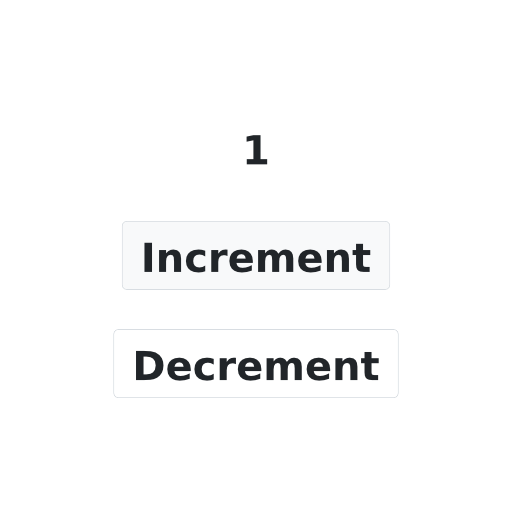
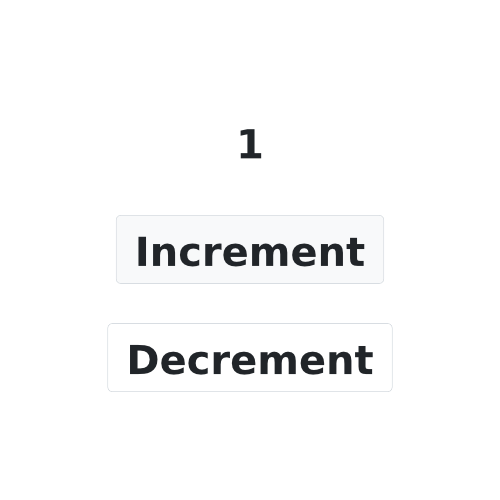
Allow sizes that are not multiples of 256

Changed region(s): [[0.24, 0.63, 0.75, 0.75], [0.24, 0.45, 0.75, 0.57], [0.48, 0.24, 0.54, 0.33]]

diff --git a/src/testing.rs b/src/testing.rs
@@ -63,7 +63,7 @@ impl<T: ToComponent + 'static> TestHarness<T>
 where
     <T as ToComponent>::Component: 'static,
 {
-    pub fn new(component: T) -> Self {
+    pub fn new<S: Into<Size>>(component: T, size: S) -> Self {
         let mut harness = Self {
             window_state: WindowState::new(component.to_component_holder()),
             report: TestReport::default(),
@@ -71,7 +71,7 @@ where
             last_mouse_pos: None,
             phantom: PhantomData,
         };
-        harness.init();
+        harness.init(size.into());
         harness
     }
 
@@ -83,8 +83,8 @@ where
             .unwrap()
     }
 
-    fn init(&mut self) {
-        self.window_state.size = Size::new(512.0, 512.0);
+    fn init(&mut self, size: Size) {
+        self.window_state.size = size;
         self.window_state.component.update_vars(
             true,
             &mut self.window_state.handle,
@@ -122,9 +122,9 @@ where
         };
         let texture = device.create_texture(&texture_desc);
         let texture_view = texture.create_view(&Default::default());
-        let u32_size = std::mem::size_of::<u32>() as u32;
+        let byte_aligned_width = (std::mem::size_of::<u32>() as u32 * width).next_multiple_of(256);
 
-        let output_buffer_size = (u32_size * width * height) as BufferAddress;
+        let output_buffer_size = (byte_aligned_width * height) as BufferAddress;
         let output_buffer_desc = BufferDescriptor {
             size: output_buffer_size,
             usage: BufferUsages::COPY_DST
@@ -188,7 +188,7 @@ where
                 buffer: &output_buffer,
                 layout: wgpu::ImageDataLayout {
                     offset: 0,
-                    bytes_per_row: Some(u32_size * width),
+                    bytes_per_row: Some(byte_aligned_width),
                     rows_per_image: Some(height),
                 },
             },
@@ -209,7 +209,15 @@ where
         pollster::block_on(rx.receive()).unwrap().unwrap();
 
         let data = buffer_slice.get_mapped_range();
-        self.image_buffer.extend_from_slice(&data);
+        let capacity_needed = height as usize * width as usize * std::mem::size_of::<u32>();
+        if let Some(additional) = capacity_needed.checked_sub(self.image_buffer.capacity()) {
+            self.image_buffer.reserve(additional);
+        }
+        for row in 0..height {
+            let start = (row * byte_aligned_width) as usize;
+            let end = start + std::mem::size_of::<u32>() * width as usize;
+            self.image_buffer.extend_from_slice(&data[start..end])
+        }
         drop(data);
         output_buffer.unmap();
     }

diff --git a/examples/testbed/src/main.rs b/examples/testbed/src/main.rs
@@ -38,11 +38,11 @@ mod test {
 
     #[test]
     fn test() {
-        let mut harness = TestHarness::new(Counter::default());
+        let mut harness = TestHarness::new(Counter::default(), (500.0, 500.0));
         assert_screenshot!(harness, "valid_start_state");
         harness.set_size((1024.0, 1024.0));
         assert_screenshot!(harness, "larger_resize");
-        harness.set_size((512.0, 512.0));
+        harness.set_size((500.0, 500.0));
         let incr_btn = harness.get_id("IncrementBtn").unwrap();
         let decr_btn = harness.get_id("DecrementBtn").unwrap();
 
